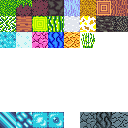
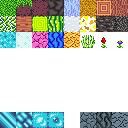
add mais flores

Changed region(s): [[0.625, 0.25, 0.75, 0.375], [0.7812, 0.2812, 0.8438, 0.375], [0.9062, 0.3125, 0.9688, 0.375]]

diff --git a/gdx-jogo/src/com/minimine/mundo/Mundo.java b/gdx-jogo/src/com/minimine/mundo/Mundo.java
@@ -91,7 +91,7 @@ public class Mundo extends Objeto {
         Bloco.blocos.add(new Bloco("tabua_madeira", "tabua_madeira"));
         Bloco.blocos.add(new Bloco("cacto", "cacto_topo", "cacto_lado"));
         Bloco.blocos.add(new Bloco("vidro", "vidro", true, true, false));
-        Bloco.blocos.add(new Bloco("tocha", "tocha", "tocha", "tocha", false, true, true, 13, true));
+        Bloco.blocos.add(new Bloco("tocha", "tocha", false, true, true, 13));
 		Bloco.blocos.add(new Bloco("pedregulho", "pedregulho"));
 		Bloco.blocos.add(new Bloco("cascalho", "cascalho"));
 		Bloco.blocos.add(new Bloco("gelo", "gelo"));
@@ -100,6 +100,8 @@ public class Mundo extends Objeto {
 		Bloco.blocos.add(new Bloco("coral_azul", "coral_azul"));
 		Bloco.blocos.add(new Bloco("coral_amarelo", "coral_amarelo"));
 		Bloco.blocos.add(new Bloco("capim", "capim", true, false, false, 0, true));
+		Bloco.blocos.add(new Bloco("tulipa", "tulipa", true, false, false, 3, true));
+		Bloco.blocos.add(new Bloco("iris_azul", "iris_azul", true, false, false, 1, true));
 		
 		Bloco.addSom("grama", "grama_1", "terra_1", "terra_2", "terra_3");
 		Bloco.addSom("terra", "terra_1", "terra_2", "terra_3");

diff --git a/gdx-jogo/src/com/minimine/utils/Mat.java b/gdx-jogo/src/com/minimine/utils/Mat.java
@@ -1,33 +1,12 @@
 package com.minimine.utils;
 
 public final class Mat {
-	public static int abs(int num) {
+	public static final int abs(int num) {
 		return num < 0 ? -num : num;
 	}
 
-	public static float abs(float num) {
-		return num < 0 ? -num : num;
-	}
-
-	public static int floor(float x) {
-        int xi = (int) x;
+	public static final int floor(float x) {
+        int xi = (int)x;
         return x < xi ? xi - 1 : xi;
     }
-	// mapeia um valor de um intervalo para outro (-1..1 para 0..100)
-    public static double mapear(double valor, double minOrigem, double maxOrigem, double minDestino, double maxDestino) {
-        return minDestino + (valor - minOrigem) * (maxDestino - minDestino) / (maxOrigem - minOrigem);
-    }
-
-	// pros ruidos:
-	public static float dot(int[] g, float x, float y) {
-        return g[0] * x + g[1] * y;
-    }
-
-	public static float dot(int[] g, float x, float y, float z) {
-        return g[0]*x + g[1]*y + g[2]*z;
-    }
-
-    public static float lerp(float t, float a, float b) {  
-        return a + t * (b - a);  
-    }  
 }

diff --git a/gdx-jogo/src/com/minimine/mundo/blocos/Bloco.java b/gdx-jogo/src/com/minimine/mundo/blocos/Bloco.java
@@ -22,6 +22,7 @@ public class Bloco {
 	public Bloco(CharSequence nome, String topo) {this(nome, topo, topo);}
 	public Bloco(CharSequence nome, String topo, String lados) {this(nome, topo, lados, topo);}
 	public Bloco(CharSequence nome, String topo, String lados, String baixo) {this(nome,topo, lados, baixo, false);}
+	public Bloco(CharSequence nome, String topo, boolean transparente, boolean solido, boolean culling, int luz) {this(nome, topo, topo, topo, transparente, solido, culling, luz, false);}
 	public Bloco(CharSequence nome, String topo, boolean transparente) {this(nome, topo, topo, topo, transparente);}
 	public Bloco(CharSequence nome, String topo, boolean transparente, boolean solido) {this(nome, topo, topo, topo, transparente, solido);}
 	public Bloco(CharSequence nome, String topo, String lados, String baixo, boolean transparente) {this(nome, topo, lados, baixo, transparente, true);}

diff --git a/gdx-jogo/src/com/minimine/graficos/Render.java b/gdx-jogo/src/com/minimine/graficos/Render.java
@@ -256,16 +256,14 @@ public class Render extends Objeto {
 	public final static boolean frustrum(Chunk chunk, Jogador jogador) {
 		final float globalX = chunk.x << 4;
 		final float globalZ = chunk.z << 4;
-
-		// dist2(distancia ao quadrado)
-		final float distAoQuadrado = Vector2.dst2(globalX, globalZ, jogador.posicao.x, jogador.posicao.z);
-
+		
 		// o raio precisa sendo convertido pra "ao quadrado" pra comparação funcionar
 		// (RAIO * 16) * (RAIO * 16)
 		final float raioEmPixels = Mundo.RAIO_CHUNKS << 4;
 		final float raioLimite = raioEmPixels * raioEmPixels;
-
-		if(!(distAoQuadrado < raioLimite)) return false;
+		
+		// dist2(distancia ao quadrado)
+		if(!(Vector2.dst2(globalX, globalZ, jogador.posicao.x, jogador.posicao.z) < raioLimite)) return false;
 
 		return jogador.camera.frustum.boundsInFrustum(globalX, 0, globalZ, 16, 255, 16);
 	}

diff --git a/gdx-jogo/src/com/minimine/graficos/Texturas.java b/gdx-jogo/src/com/minimine/graficos/Texturas.java
@@ -44,6 +44,8 @@ public class Texturas {
 			atlas.put("coral_azul", new TextureRegion(blocos, 48, 32, 16, 16));
 			atlas.put("coral_amarelo", new TextureRegion(blocos, 64, 32, 16, 16));
 			atlas.put("capim", new TextureRegion(blocos, 80, 32, 16, 16));
+			atlas.put("tulipa", new TextureRegion(blocos, 96, 32, 16, 16));
+			atlas.put("iris_azul", new TextureRegion(blocos, 112, 32, 16, 16));
 			// animações:
 			atlas.put("agua_a1", new TextureRegion(agua, 0, 0, 16, 16));
 			atlas.put("agua_a2", new TextureRegion(agua, 0, 16, 16, 16));
@@ -79,9 +81,7 @@ public class Texturas {
 	}
 	
 	public static void liberar() {
-		for(Texture tex : texs.values()) {
-			tex.dispose();
-		}
+		for(Texture tex : texs.values()) tex.dispose();
 		blocos.dispose();
 	}
 }

diff --git a/gdx-jogo/src/com/minimine/utils/NuvensUtil.java b/gdx-jogo/src/com/minimine/utils/NuvensUtil.java
@@ -16,7 +16,7 @@ public class NuvensUtil {
     public static float tempo = 0f;
     public static float[] nuvensPos; // [x, y, z, tam] pra cada nuvem
     public static final int NUM_NUVENS = 100;
-    public static final float RAIO_VISIVEL = 150f;
+    public static final float RAIO_VISIVEL = 200f;
 	public static float ALTURA_NUVENS = 150;
     public static final float VELO = 0.2f;
 	

diff --git a/gdx-jogo/src/com/minimine/entidades/Entidade.java b/gdx-jogo/src/com/minimine/entidades/Entidade.java
@@ -39,13 +39,6 @@ public class Entidade extends Objeto {
 	public String bioma = "";
 
 	public Entidade() {
-		yaw = 180f;
-		tom = -20f;
-		VELO_MAX_QUEDA = -50f;
-		largura = 0.6f;
-		altura = 1.9f;
-		profundidade = 0.6f;
-		hitbox = new BoundingBox();
 		liberado = false;
 	}
 

diff --git a/README.md b/README.md
@@ -132,12 +132,10 @@ Erosão Hidraulica.
 * Cache de tipos de biomas(também ajuda na transição mais caotica de biomas com neve e areia).
 
 ## Ruídos utilitários:
-1. PerlinRuido2D.java
-2. PerlinRuido3D.java
-3. Simplex2D.java (atual)
-4. Simplex3D.java (atual)
-5. CristaRuido2D.java (atual)
-6. CelularRuido2D.java (atual)
+3. Simplex2D.java
+4. Simplex3D.java
+5. CristaRuido2D.java
+6. CelularRuido2D.java
 
 ## compatibilidade:
 * Android 4 até Android 15.
